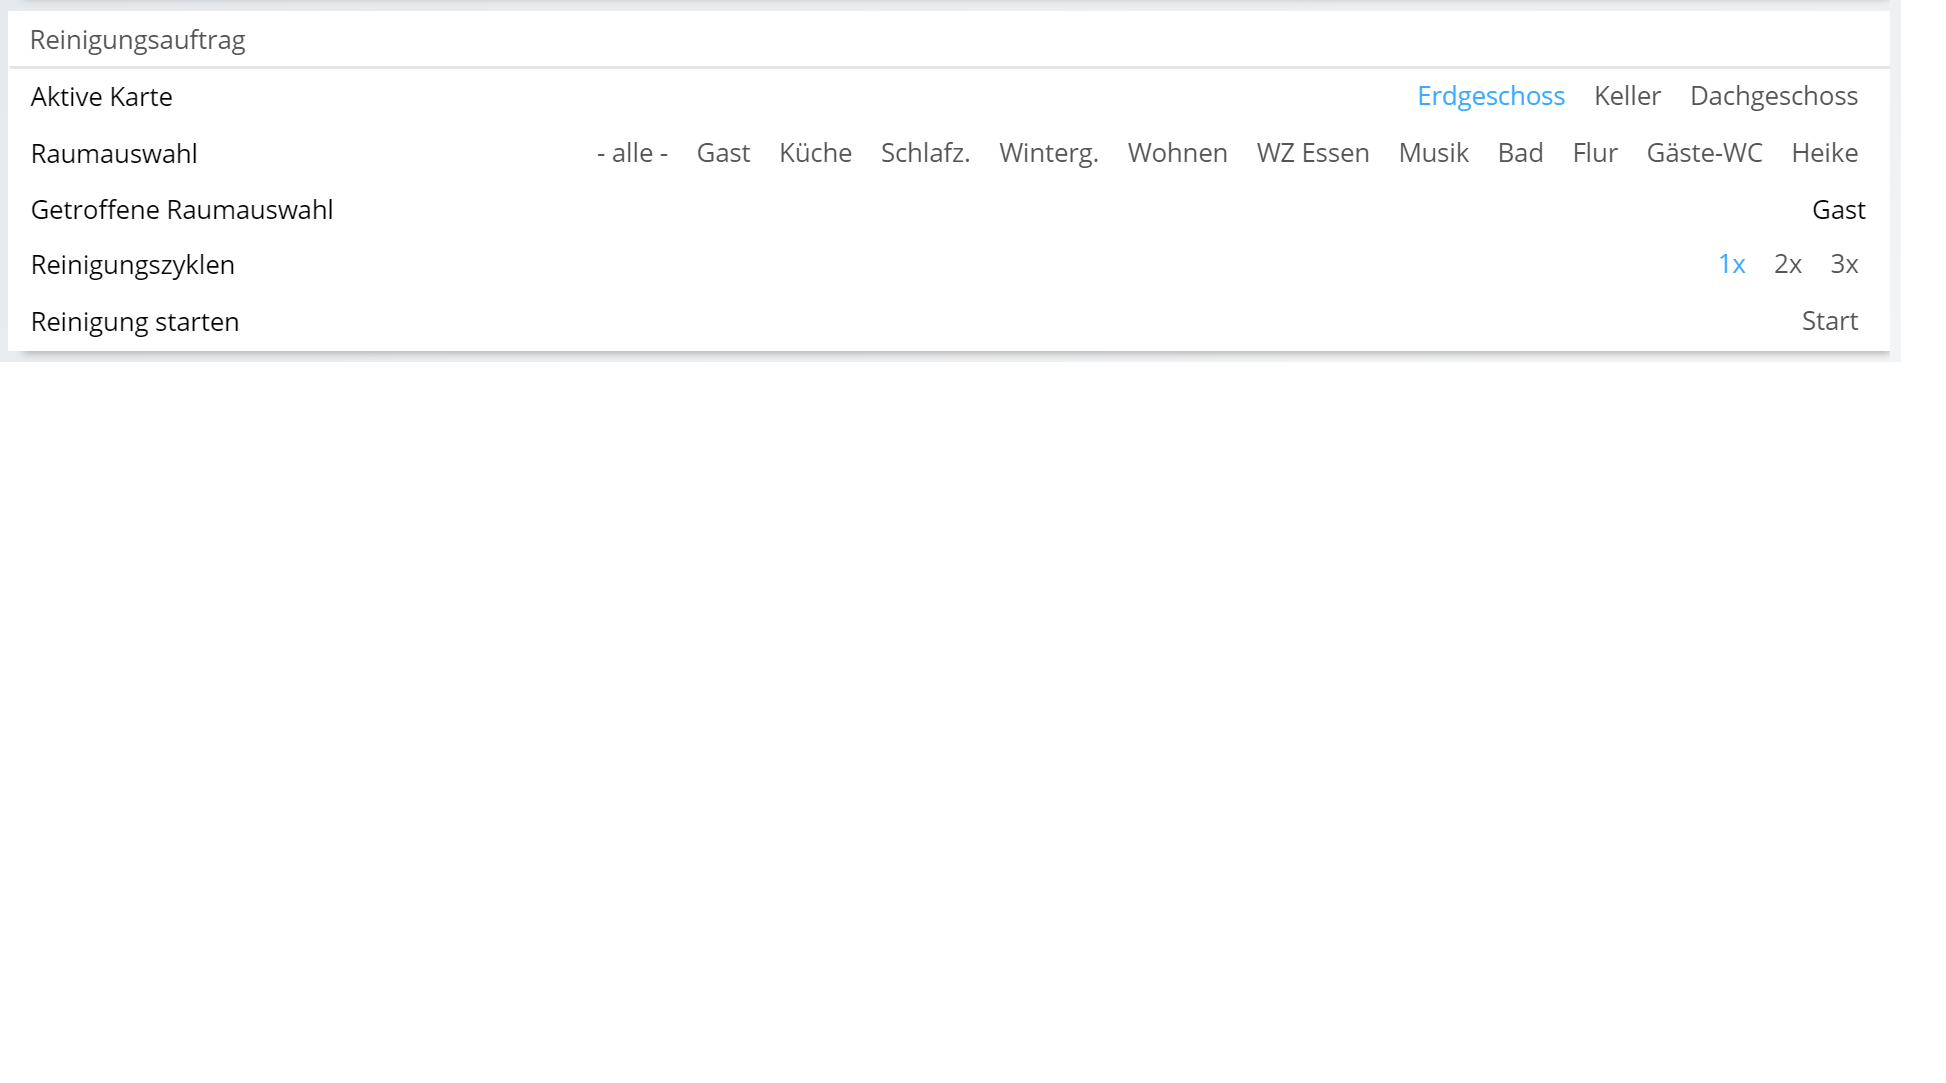
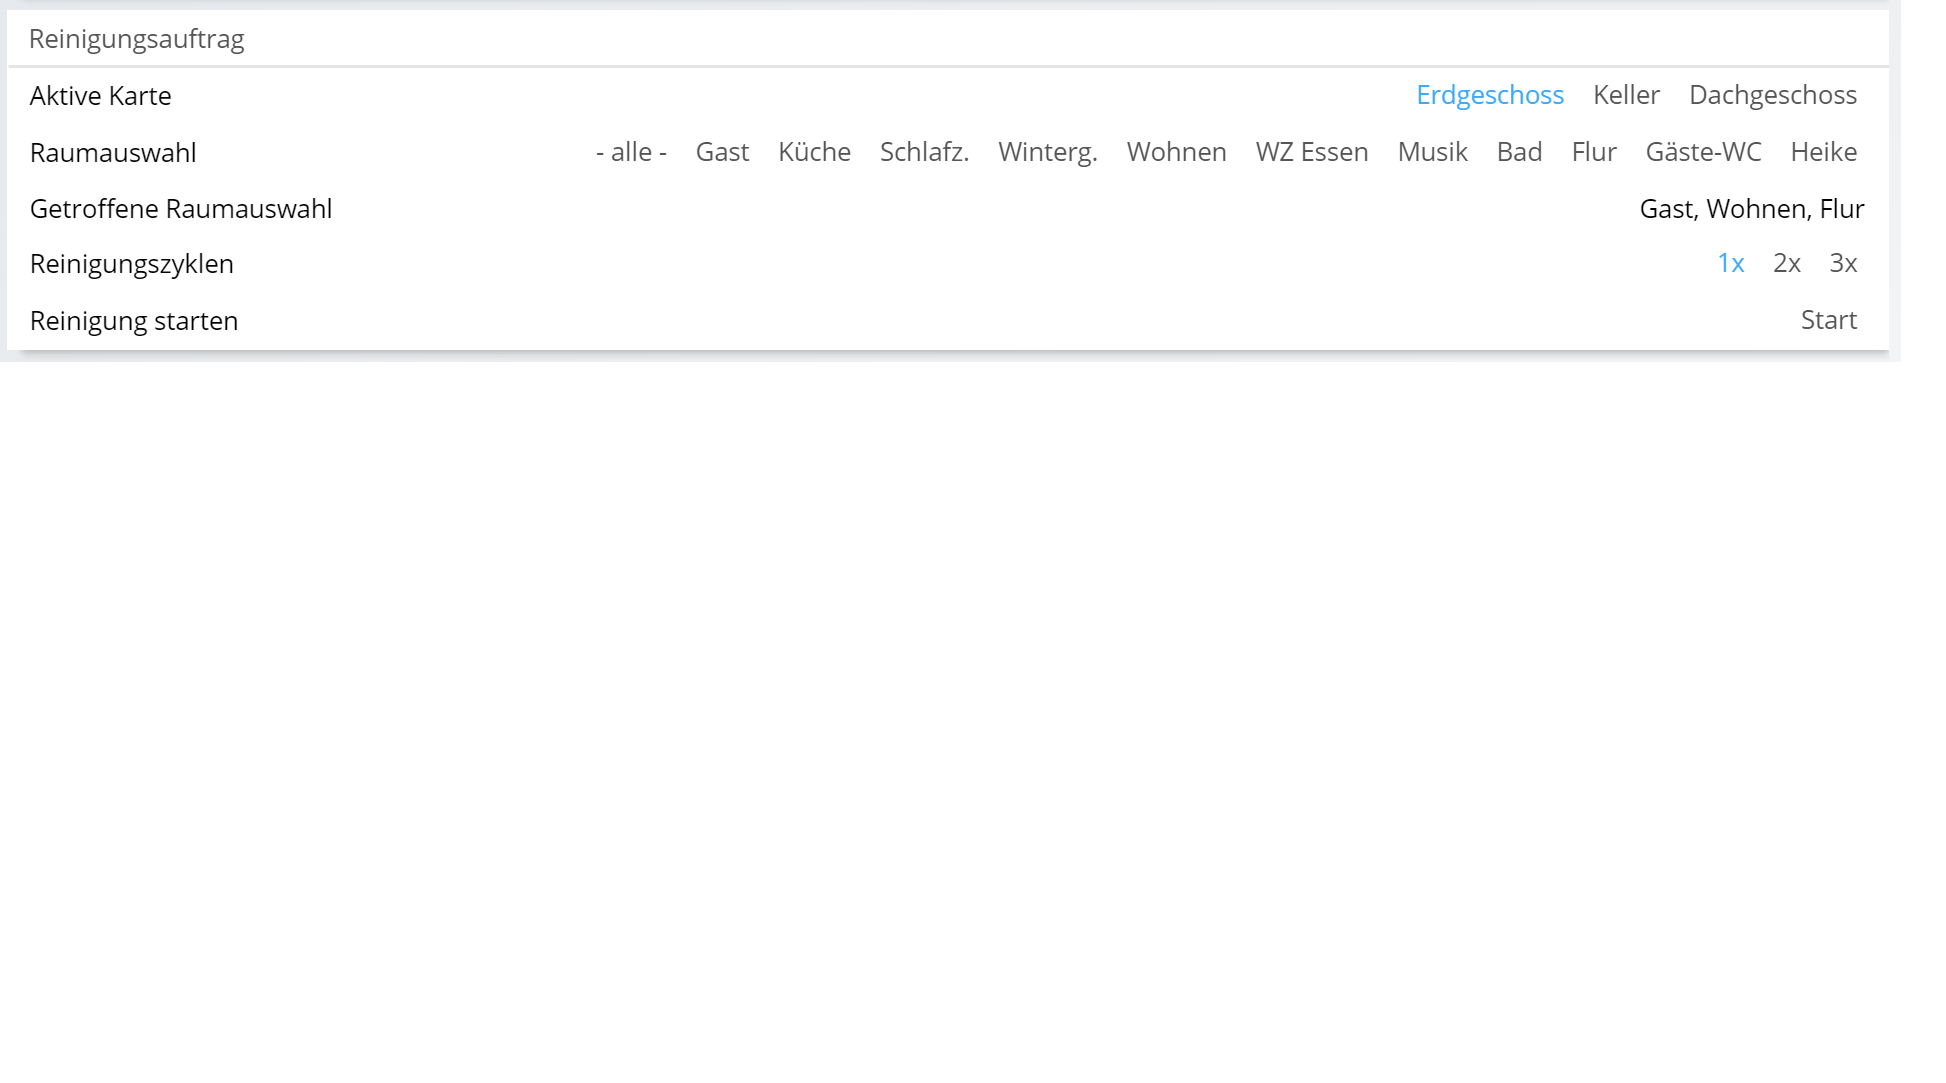
2.1 build 25 korrigiert: - die Räume wurden u.U. nicht ausgelesen - Doku korrigiert

diff --git a/Roborock Robot/module.php b/Roborock Robot/module.php
@@ -2751,7 +2751,7 @@ class Roborock extends IPSModule
             [
                 'type'    => 'ExpansionPanel',
                 'caption' => 'Change Room Names',
-                'visible' => $this->ReadPropertyBoolean(self::PROPERTY_MAP_STATUS) && ($this->GetStatus() === IS_ACTIVE),
+                'visible' => $this->ReadPropertyBoolean(self::PROPERTY_CLEANING_ORDER) && ($this->GetStatus() === IS_ACTIVE),
                 'items'   => [
                     [
                         'name'     => self::FF_MAPANDROOMLIST,

diff --git a/docs/de/README.md b/docs/de/README.md
@@ -65,7 +65,7 @@ Das Modul wird über den Modul Store geladen (Modulname: Roborock). Alternativ k
 
 In IP-Symcon nun _Instanz hinzufügen_ auswählen unter der Kategorie, unter der man die Instanz hinzufügen will, und _Roborock_ auswählen.
 
-![AddInstance](img/Roborock_add_instance.png?raw=true "Add Instance")
+![AddInstance](img/Roborock_add_instance.png "Add Instance")
 
 Es öffnet sich das Konfigurationsformular. Hier ist anzugeben:
  - IP-Adresse des Saugers
@@ -77,6 +77,8 @@ Optional können die Statusvariablen ausgewählt werden sowie Pushnachrichten de
 Im Aktionsbereich des Formulars können die Statusvariablen getestet werden ("Testbereich"). 
 
 Unter "Raumnamen ändern" (sichtbar, wenn die Statusvariablen für einen _Reinigungsauftrag_ ausgewählt wurden) können die in der Xiaomi App definierten Räume übernommen und anschließend die Räume mit Namen versehen werden. Leider gibt es bislang keinen (mir) bekannten Weg, die Namen auszulesen.
+![RoomNames](img/RoomNames.png "Raumnamen ändern")
+Hinweis: beim Einlesen werden immer die Räume der aktuell geladenen Karte eingelesen.
 
 Falls die Statusvariable _Kartenbild_ ausgewählt wurde, werden zusätzlich Funktionen zum Holen der Karte und zum Anzeigen angeboten.
 
@@ -85,7 +87,7 @@ Falls die Statusvariable _Kartenbild_ ausgewählt wurde, werden zusätzlich Funk
 Falls die Option _Reinigungsauftrag_ gewählt wurde, werden die notwendigen Variablen und Profile zum Absetzen eines umfangreichen Reinigungsauftrages zur Verfügung gestellt.
 
 Beispiel einer Darstellung im Webfront:
-![CleaningOrder](img/CleaningOrder.png?raw=true "Reinigungsauftrag")
+![CleaningOrder](img/CleaningOrder.png "Reinigungsauftrag")
 
 
 ## 4. Funktionsreferenz
